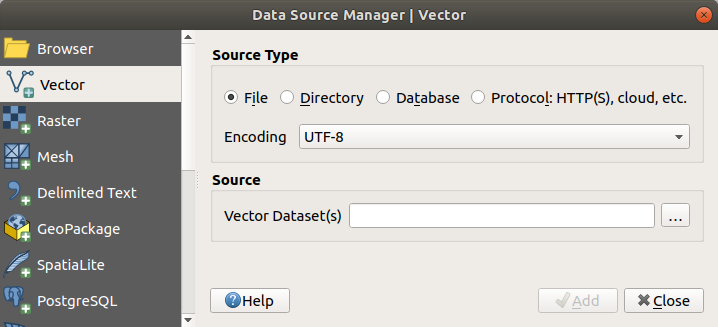
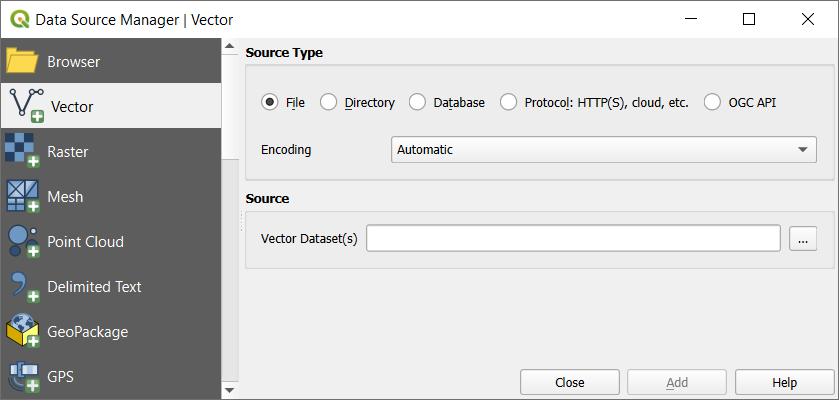
OGC API Source type for vector and raster

diff --git a/docs/user_manual/managing_data_source/opening_data.rst b/docs/user_manual/managing_data_source/opening_data.rst
@@ -450,7 +450,15 @@ Layer` tabs allow loading of layers from source types other than :guilabel:`File
   * For all vector source types it is possible to define the :guilabel:`Encoding` or
     to use the :menuselection:`Automatic -->` setting.
 
-
+* The |radioButtonOn| :guilabel:`OGC API` source type allows you to access vector
+  and raster data from servers that implement the OGC API standards.
+  To use this option:
+  
+  * Select |radioButtonOn| :guilabel:`OGC API` from the :guilabel:`Data Source Manager`
+    dialog.
+  * Enter the endpoint of the OGC API service you want to connect to. Note that you
+    don't need to prefix the endpoint with "OGCAPI:".
+  * Click :guilabel:`Connect` to establish a connection to the server.
 
 
 .. _mesh_loading:
